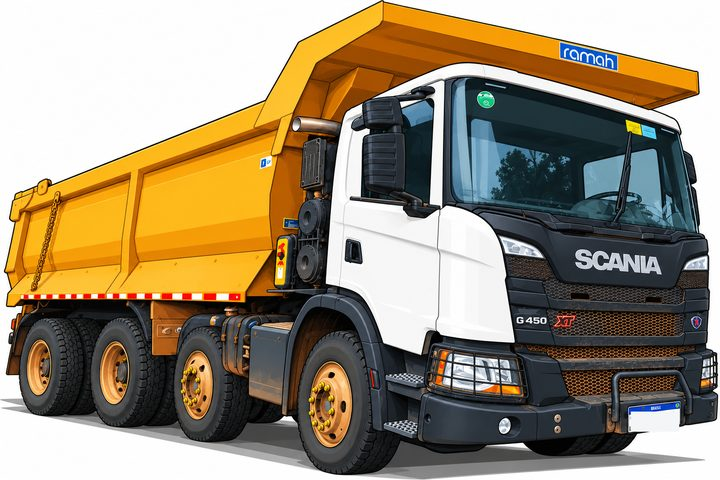
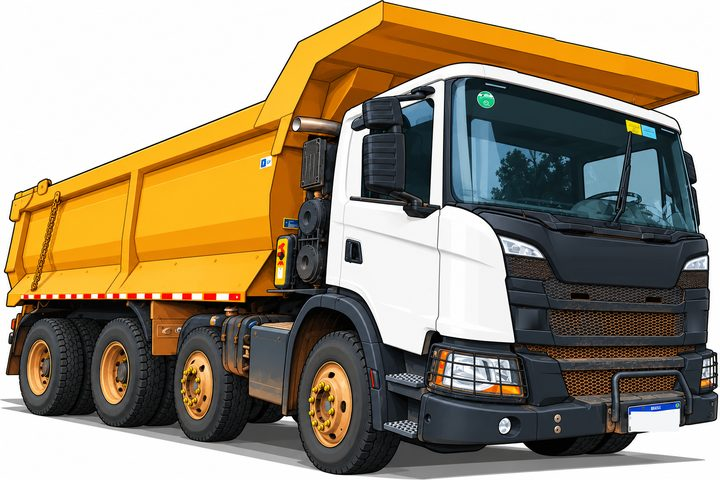
Imagem do caminhão sem marcas e segurança/LGPD no app de frota (r53, ck27)
- checklist/img/caminhao.jpg: sem o logo e o nome da marca, o modelo, o emblema e a placa de empresa na caçamba
- App de frota: cabeçalhos de proteção (CSP liberando só Firebase e a planilha Google, não abre dentro de
  outro site, HTTPS obrigatório), Política de privacidade e Termos de uso no login e em Minha conta,
  foco visível no teclado
- testes: frota no test-seguranca.js; espera o aviso aparecer antes de medir contraste no test-visual.js

Claude-Session: https://claude.ai/code/session_014qpMA1NpskHxgmpSewHHWA

diff --git a/js/legal.js b/js/legal.js
@@ -1,0 +1,69 @@
+/* ============================================================
+   Política de privacidade (LGPD) e Termos de uso
+   Abrem por cima de qualquer tela, com ou sem login.
+   ============================================================ */
+/* Quem responde pelos dados. Vazio = "o gestor do app". */
+const EMPRESA_LGPD = { nome: "", cnpj: "", contato: "" };
+
+const Legal = {
+  _esc(s) { return String(s).replace(/[&<>"']/g, c => ({ "&": "&amp;", "<": "&lt;", ">": "&gt;", '"': "&quot;", "'": "&#39;" }[c])); },
+  textos: {
+    privacidade() {
+      const e = EMPRESA_LGPD, esc = s => Legal._esc(s);
+      const quem = e.nome ? esc(e.nome) + (e.cnpj ? " (CNPJ " + esc(e.cnpj) + ")" : "") : "a empresa dona da frota";
+      const contato = e.contato ? esc(e.contato) : "o gestor do app";
+      return `<h2>Política de privacidade</h2>
+      <p class="hint">Em linha com a Lei Geral de Proteção de Dados (Lei 13.709/2018).</p>
+      <h3>Quem cuida dos dados</h3>
+      <p>O controlador dos dados é ${quem}. Dúvidas e pedidos sobre seus dados: ${contato}.</p>
+      <h3>Quais dados o app guarda</h3>
+      <ul><li>Nome, usuário e função (operador ou gestor) de quem usa o app.</li>
+        <li>Lançamentos da operação: abastecimentos, viagens, paradas, revisões, KM e horímetro, com o equipamento, o nome do operador ou motorista, a data e quem lançou.</li></ul>
+      <p>O app não pede localização, câmera, documentos pessoais nem dados bancários.</p>
+      <h3>Para que</h3>
+      <p>Somente para controlar a frota: consumo de combustível, produção, manutenção e custos. A base legal é o legítimo interesse da empresa na gestão da operação.</p>
+      <h3>Quem vê</h3>
+      <p>Os gestores e a equipe autorizada da empresa. Os dados não são vendidos nem usados para propaganda.</p>
+      <h3>Onde ficam</h3>
+      <p>No Google Firebase e na planilha Google da empresa (servidores que podem ficar fora do Brasil), com acesso por usuário e senha.
+        No celular fica uma cópia para o app funcionar sem sinal. A senha nunca é guardada: só um resumo cifrado, para entrar sem internet.</p>
+      <h3>Cookies e rastreamento</h3>
+      <p>O app não usa cookies de propaganda nem ferramentas de rastreamento ou estatística de terceiros.</p>
+      <h3>Por quanto tempo</h3>
+      <p>Enquanto forem necessários para o histórico da frota ou exigidos por lei (por exemplo, fiscal e trabalhista).</p>
+      <h3>Seus direitos</h3>
+      <p>Você pode pedir para ver, corrigir ou apagar seus dados e saber com quem foram compartilhados, falando com ${contato}.</p>`;
+    },
+    termos() {
+      return `<h2>Termos de uso</h2>
+      <ul><li>O app é de uso interno, só para pessoas autorizadas pela empresa.</li>
+        <li>O usuário e a senha são pessoais: não empreste e troque a senha se alguém souber.</li>
+        <li>Lance os dados com a verdade, no dia em que aconteceram. Cada lançamento fica registrado com o nome de quem lançou.</li>
+        <li>Os dados podem ser usados em controles internos e auditorias da operação.</li>
+        <li>O uso dos dados segue a <a href="#" data-doc="privacidade">Política de privacidade</a>.</li></ul>`;
+    }
+  },
+  abrir(tipo) {
+    const ant = document.querySelector(".doc-fundo"); if (ant) ant.remove();
+    const f = document.createElement("div");
+    f.className = "doc-fundo";
+    f.innerHTML = `<div class="doc" role="dialog" aria-modal="true" tabindex="-1">${this.textos[tipo]()}
+      <button class="btn btn-primary" data-fechar>Fechar</button></div>`;
+    f.onclick = ev => {
+      const d = ev.target.closest("[data-doc]");
+      if (d) { ev.preventDefault(); return this.abrir(d.dataset.doc); }
+      if (ev.target === f || ev.target.closest("[data-fechar]")) f.remove();
+    };
+    f.onkeydown = ev => { if (ev.key === "Escape") f.remove(); };
+    document.body.appendChild(f);
+    f.querySelector(".doc").focus();
+  },
+  links() {
+    return `<p class="hint legal">Ao usar o app, você concorda com os <a href="#" data-doc="termos">Termos de uso</a>
+      e a <a href="#" data-doc="privacidade">Política de privacidade</a>.</p>`;
+  }
+};
+document.addEventListener("click", ev => {
+  const d = ev.target.closest("[data-doc]");
+  if (d && !d.closest(".doc-fundo")) { ev.preventDefault(); Legal.abrir(d.dataset.doc); }
+});

diff --git a/testes/test-seguranca.js b/testes/test-seguranca.js
@@ -74,6 +74,24 @@ const ok = (cond, msg) => { console.log((cond ? '  ✔ ' : '  ✖ ') + msg); if 
   await page.waitForSelector('#lgUsuario');
   ok(!(await page.evaluate(() => localStorage.getItem('ck_historico:jean@gp2t.local'))), 'ao sair, a lista de checklists sai do celular');
 
+  console.log('5. app de frota');
+  const fr = {};
+  JSON.parse(fs.readFileSync(__dirname + '/../firebase.json', 'utf8')).hosting.find(x => x.site === 'gestaofrotaapp').headers
+    .filter(x => x.source === '**').forEach(x => x.headers.forEach(y => { fr[y.key] = y.value; }));
+  const cspF = fr['Content-Security-Policy'] || '';
+  ok(/frame-ancestors 'none'/.test(cspF) && fr['X-Frame-Options'] === 'DENY' && /max-age=\d{7,}/.test(fr['Strict-Transport-Security'] || '')
+    && !/script-src[^;]*unsafe/.test(cspF) && /script\.google\.com/.test(cspF), 'frota: mesmas proteções, liberando só a planilha Google');
+  const p2 = await browser.newPage({ serviceWorkers: 'block' });
+  await p2.route('https://www.gstatic.com/**', r => r.fulfill({ status: 200, contentType: 'text/javascript', body: '' }));
+  await p2.goto('http://localhost:8130/index.html');
+  await p2.evaluate(() => mostrarLogin());
+  ok((await p2.textContent('.login-box')).includes('Política de privacidade'), 'frota: login com os links de Termos e Privacidade');
+  await p2.click('.login-box [data-doc="privacidade"]');
+  const polF = await p2.textContent('.doc');
+  ok(polF.includes('13.709') && polF.includes('não pede localização') && polF.includes('Seus direitos'), 'frota: política abre e descreve os dados do app de frota');
+  await p2.click('.doc [data-fechar]');
+  ok(!(await p2.$('.doc-fundo')), 'frota: Fechar fecha');
+
   ok(!externos.size, 'nenhum acesso a site de rastreamento/terceiros' + (externos.size ? ': ' + [...externos].join(', ') : ''));
   ok(erros.length === 0, 'nenhum erro de JavaScript nem bloqueio da CSP' + (erros.length ? ': ' + erros.join(' | ') : ''));
   await browser.close();

diff --git a/index.html b/index.html
@@ -9,7 +9,7 @@
   <meta name="mobile-web-app-capable" content="yes" />
   <title>GP2T · Gestão de Frota</title>
   <link rel="manifest" href="manifest.json" />
-  <link rel="stylesheet" href="css/style.css?v=20260903f" />
+  <link rel="stylesheet" href="css/style.css?v=20261022a" />
   <link rel="icon" href="icons/icon.svg" type="image/svg+xml" />
 </head>
 <body>
@@ -53,11 +53,12 @@
   <script src="https://www.gstatic.com/firebasejs/10.12.2/firebase-app-compat.js"></script>
   <script src="https://www.gstatic.com/firebasejs/10.12.2/firebase-auth-compat.js"></script>
   <script src="https://www.gstatic.com/firebasejs/10.12.2/firebase-firestore-compat.js"></script>
-  <script src="js/firebase-config.js?v=20260903f"></script>
-  <script src="js/auth.js?v=20260903f"></script>
-  <script src="js/storage.js?v=20260903f"></script>
-  <script src="js/cloud.js?v=20260903f"></script>
-  <script src="js/sync.js?v=20260903f"></script>
-  <script src="js/app.js?v=20260903f"></script>
+  <script src="js/firebase-config.js?v=20261022a"></script>
+  <script src="js/auth.js?v=20261022a"></script>
+  <script src="js/storage.js?v=20261022a"></script>
+  <script src="js/cloud.js?v=20261022a"></script>
+  <script src="js/sync.js?v=20261022a"></script>
+  <script src="js/legal.js?v=20261022a"></script>
+  <script src="js/app.js?v=20261022a"></script>
 </body>
 </html>

diff --git a/css/style.css b/css/style.css
@@ -418,3 +418,15 @@ body.tema-claro .btn-back { background: rgba(255,255,255,.12); border-color: rgb
 /* Cartão NOVO DIA: no fundo verde-claro o rótulo precisa de verde escuro. */
 body.tema-claro .menu-card.accent { border-color: rgba(4,120,87,.35); }
 body.tema-claro .menu-card.accent .lbl { color: #047857; }
+
+/* ===== Política de privacidade e Termos de uso ===== */
+.legal a, .doc a { color: var(--brand-2); font-weight: 700; }
+.doc-fundo { position: fixed; inset: 0; z-index: 300; background: rgba(0,0,0,.6); display: flex; justify-content: center; align-items: flex-end; padding: 12px; }
+.doc { width: 100%; max-width: 560px; max-height: 88vh; overflow-y: auto; background: var(--card); color: var(--text); border-radius: 18px; border-top: 5px solid var(--brand); padding: 18px 18px 14px; outline: none; }
+.doc h2 { margin: 0 0 6px; font-size: 20px; }
+.doc h3 { margin: 14px 0 4px; font-size: 15px; }
+.doc p, .doc li { font-size: 14px; line-height: 1.45; margin: 0 0 6px; }
+.doc ul { padding-left: 20px; margin: 4px 0 10px; }
+.doc .btn { margin-top: 12px; width: 100%; }
+/* teclado: foco sempre visível */
+button:focus-visible, a:focus-visible, [tabindex]:focus-visible { outline: 3px solid var(--brand); outline-offset: 2px; }

diff --git a/js/app.js b/js/app.js
@@ -1,7 +1,7 @@
 /* ============================================================
    STRACTA · Controle de Frota — Lógica da interface
    ============================================================ */
-const VERSION = "11/10/2026 · r52 (editar horímetro e KM na ficha)";
+const VERSION = "22/10/2026 · r53 (segurança e LGPD)";
 const $  = (s, r = document) => r.querySelector(s);
 const $$ = (s, r = document) => [...r.querySelectorAll(s)];
 const app = $("#app");
@@ -485,6 +485,7 @@ function telaMinhaConta() {
       </div>
       <button class="btn btn-primary btn-sm" id="btnCnSenha">🔑 Trocar senha</button>
       <p class="hint" id="cnSenhaMsg" style="margin-top:8px"></p>
+      ${Legal.links()}
     </div>
   `;
 
@@ -3129,6 +3130,7 @@ function mostrarLogin(aviso) {
       ${!navigator.onLine ? `<p class="hint" style="color:var(--blue,#93c5fd)">📴 Sem internet — dá para entrar
       com um usuário que já usou este celular. Os lançamentos sobem sozinhos quando a rede voltar.</p>` : ""}
       <p class="hint">Esqueceu a senha? Peça ao gestor para redefinir.</p>
+      ${Legal.links()}
     </div>`;
 
   const msg = (t, cor) => { const m = $("#loginMsg"); m.innerHTML = t; m.style.color = cor || "var(--muted)"; };

diff --git a/checklist/index.html b/checklist/index.html
@@ -9,7 +9,7 @@
   <meta name="mobile-web-app-capable" content="yes" />
   <title>GP2T · Checklist</title>
   <link rel="manifest" href="manifest.json" />
-  <link rel="stylesheet" href="css/style.css?v=ck26" />
+  <link rel="stylesheet" href="css/style.css?v=ck27" />
   <link rel="icon" href="icons/icon.svg" type="image/svg+xml" />
   <link rel="apple-touch-icon" href="icons/icon-192.png" />
 </head>
@@ -41,10 +41,10 @@
   <script src="https://www.gstatic.com/firebasejs/10.12.2/firebase-auth-compat.js"></script>
   <script src="https://www.gstatic.com/firebasejs/10.12.2/firebase-firestore-compat.js"></script>
   <script src="https://www.gstatic.com/firebasejs/10.12.2/firebase-storage-compat.js"></script>
-  <script src="js/firebase-config.js?v=ck26"></script>
-  <script src="js/midia.js?v=ck26"></script>
-  <script src="js/dados.js?v=ck26"></script>
-  <script src="js/pdf.js?v=ck26"></script>
-  <script src="js/app.js?v=ck26"></script>
+  <script src="js/firebase-config.js?v=ck27"></script>
+  <script src="js/midia.js?v=ck27"></script>
+  <script src="js/dados.js?v=ck27"></script>
+  <script src="js/pdf.js?v=ck27"></script>
+  <script src="js/app.js?v=ck27"></script>
 </body>
 </html>

diff --git a/testes/test-visual.js b/testes/test-visual.js
@@ -67,6 +67,7 @@ const shot = async (page, nome) => {
   await page.click('#eqGaleria');
   await page.waitForSelector('.foto-eq .vis.foto img');
   ok(await page.isVisible('#eqSemFoto'), 'foto escolhida aparece na prévia');
+  await page.waitForTimeout(500);   // o aviso "Foto pronta" termina de aparecer (no meio do efeito o contraste é menor)
   await shot(page, 'v2-cadastro-foto');
   await page.click('#fEq button.btn:not([type=button])');
   await page.waitForFunction(() => !document.querySelector('.foto-eq .vis.foto'));

diff --git a/sw.js b/sw.js
@@ -1,7 +1,7 @@
 /* STRACTA · Service Worker
    Estratégia "rede primeiro, sem cache HTTP": quando há internet, sempre
    baixa a versão mais nova do servidor; offline usa a última cópia salva. */
-const CACHE = "gp2t-v52";
+const CACHE = "gp2t-v53";
 const ASSETS = [
   "./",
   "./index.html",
@@ -11,6 +11,7 @@ const ASSETS = [
   "./js/storage.js",
   "./js/cloud.js",
   "./js/sync.js",
+  "./js/legal.js",
   "./js/app.js",
   "./manifest.json",
   "./icons/icon.svg"

diff --git a/checklist/js/app.js b/checklist/js/app.js
@@ -1,7 +1,7 @@
 /* ============================================================
    Checklist de Máquinas e Caminhões · telas
    ============================================================ */
-const VERSAO = "ck26";
+const VERSAO = "ck27";
 const RASCUNHO_KEY = "ck_rascunho";     // + ":" + email — cada pessoa tem o seu
 const HISTORICO_KEY = "ck_historico";   // + ":" + email
 /* chave por usuário: no mesmo celular, um motorista não vê o checklist do outro */

diff --git a/checklist/sw.js b/checklist/sw.js
@@ -1,7 +1,7 @@
 /* Checklist · Service Worker
    "Rede primeiro": com internet sempre baixa a versão nova; sem sinal usa a
    última cópia. O escopo é só /checklist/ — o app de frota tem o dele. */
-const CACHE = "ck-v26";
+const CACHE = "ck-v27";
 const ASSETS = [
   "./",
   "./index.html",
